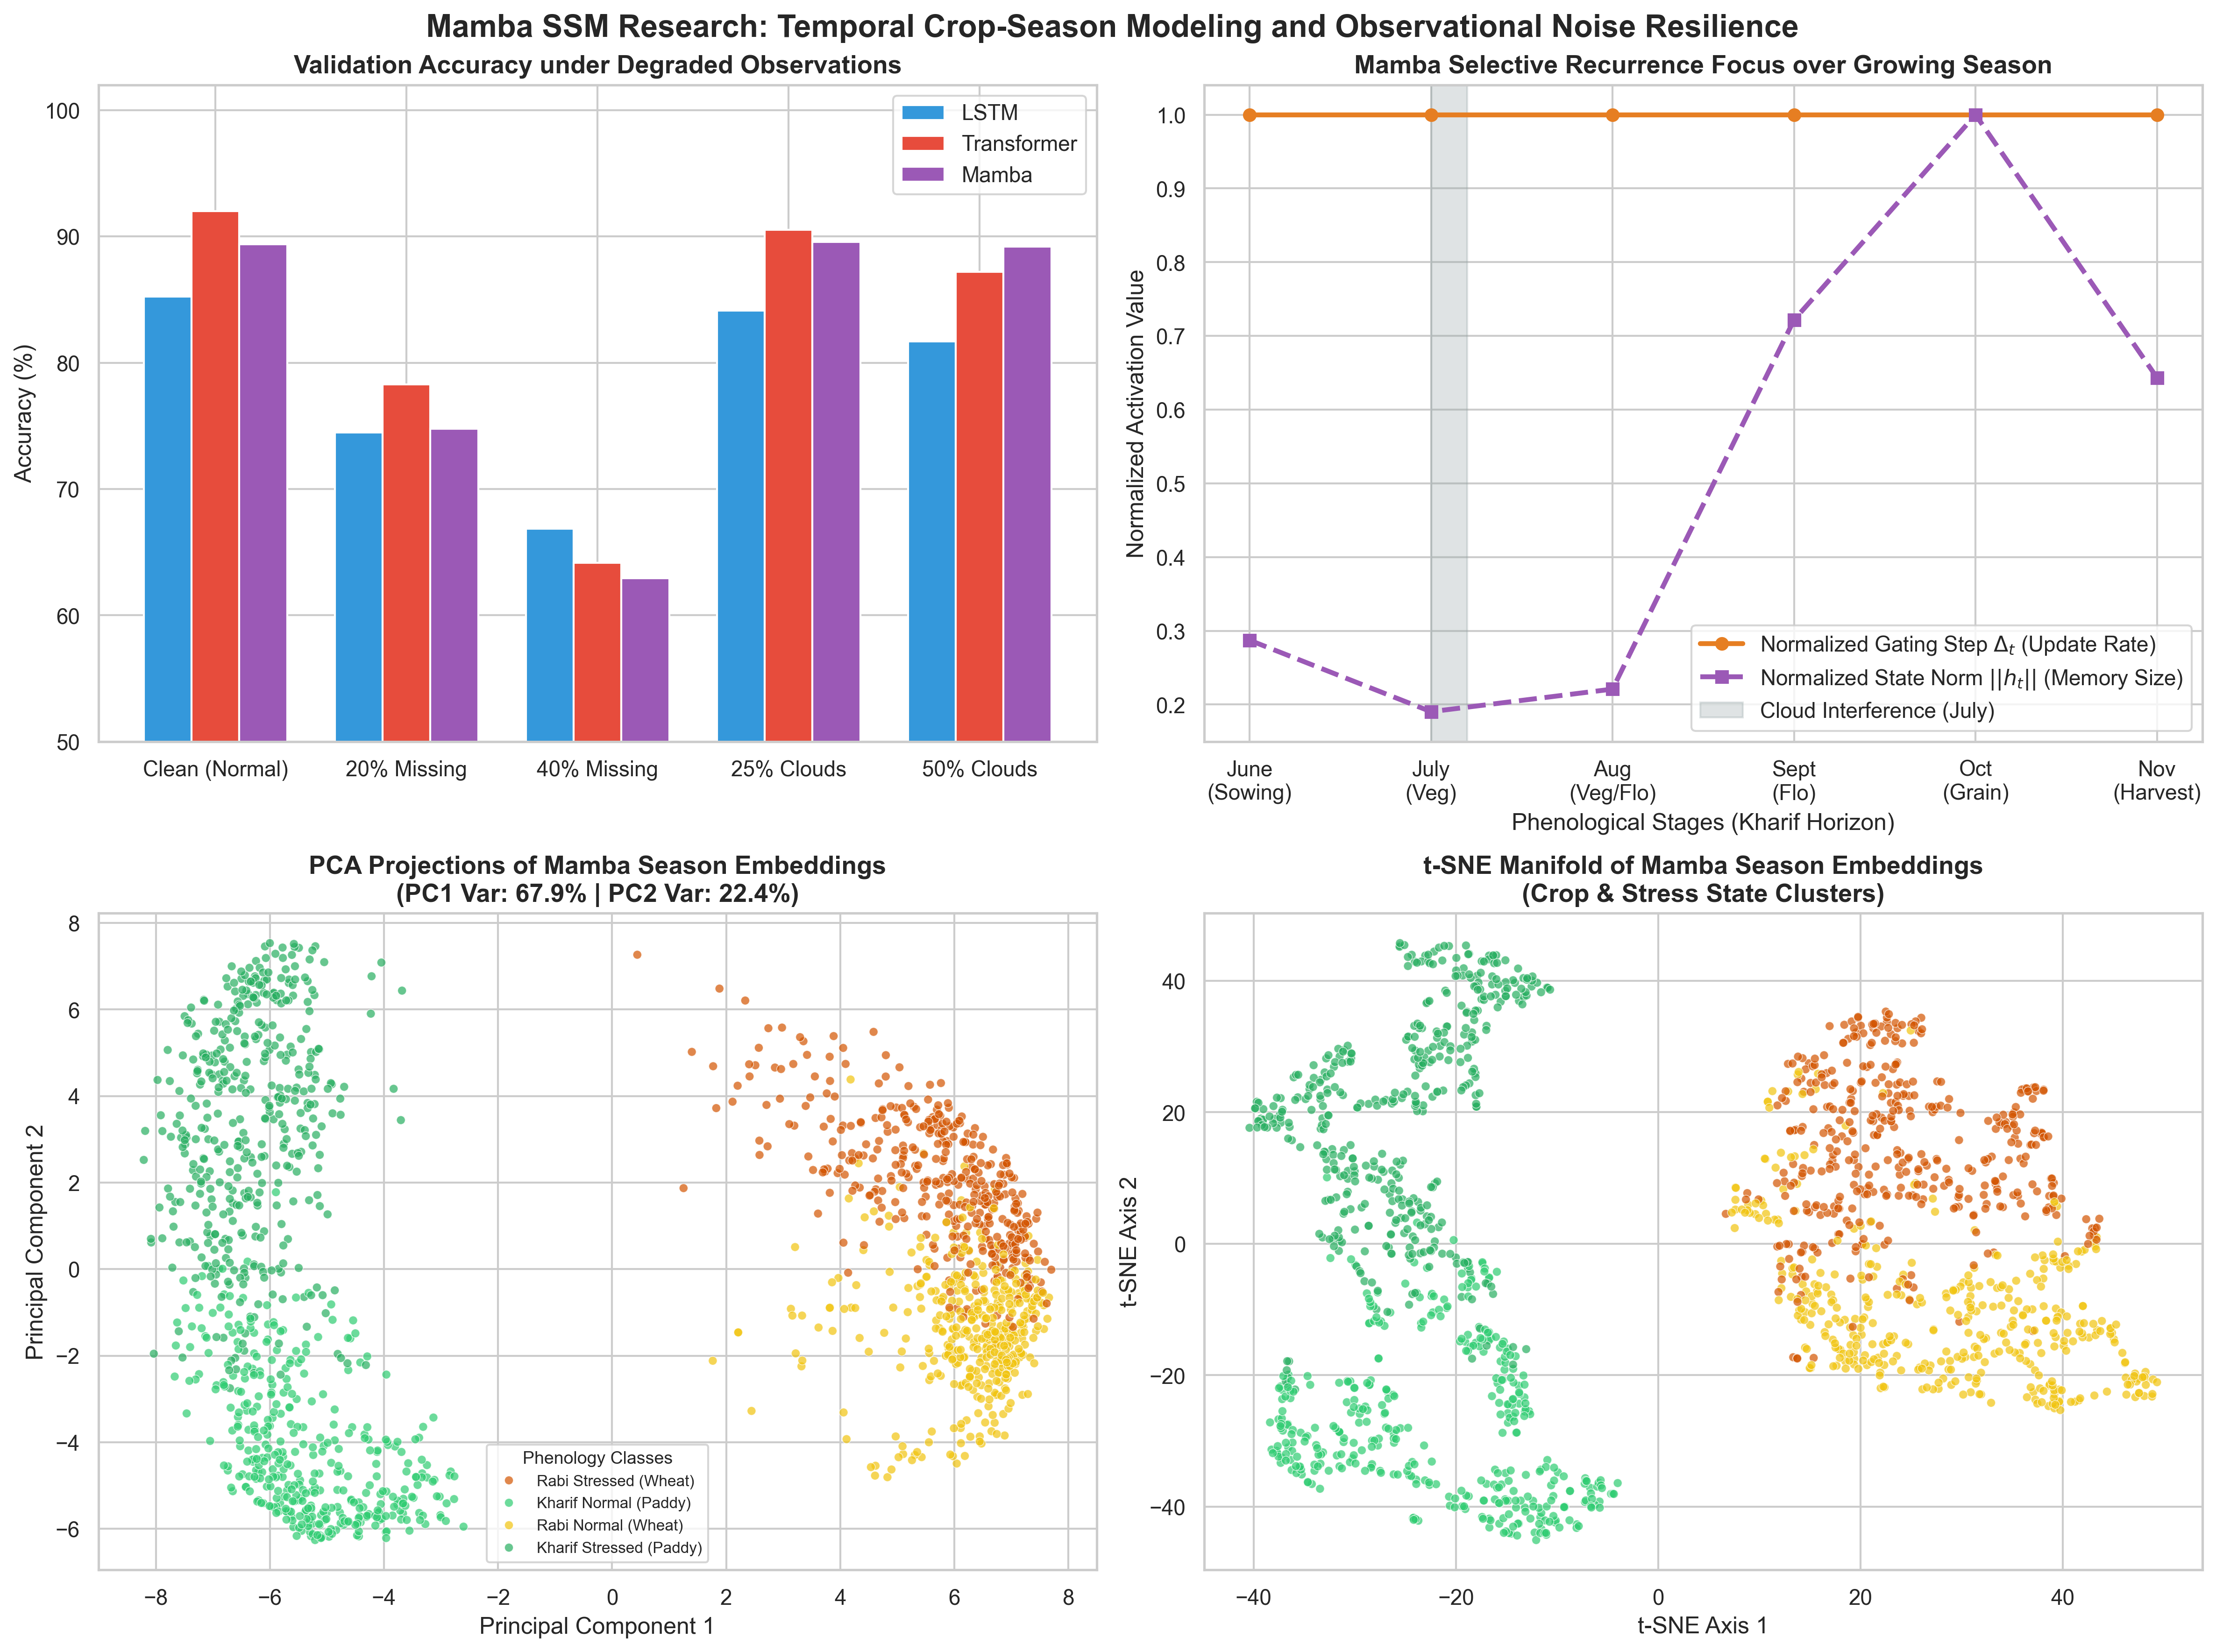
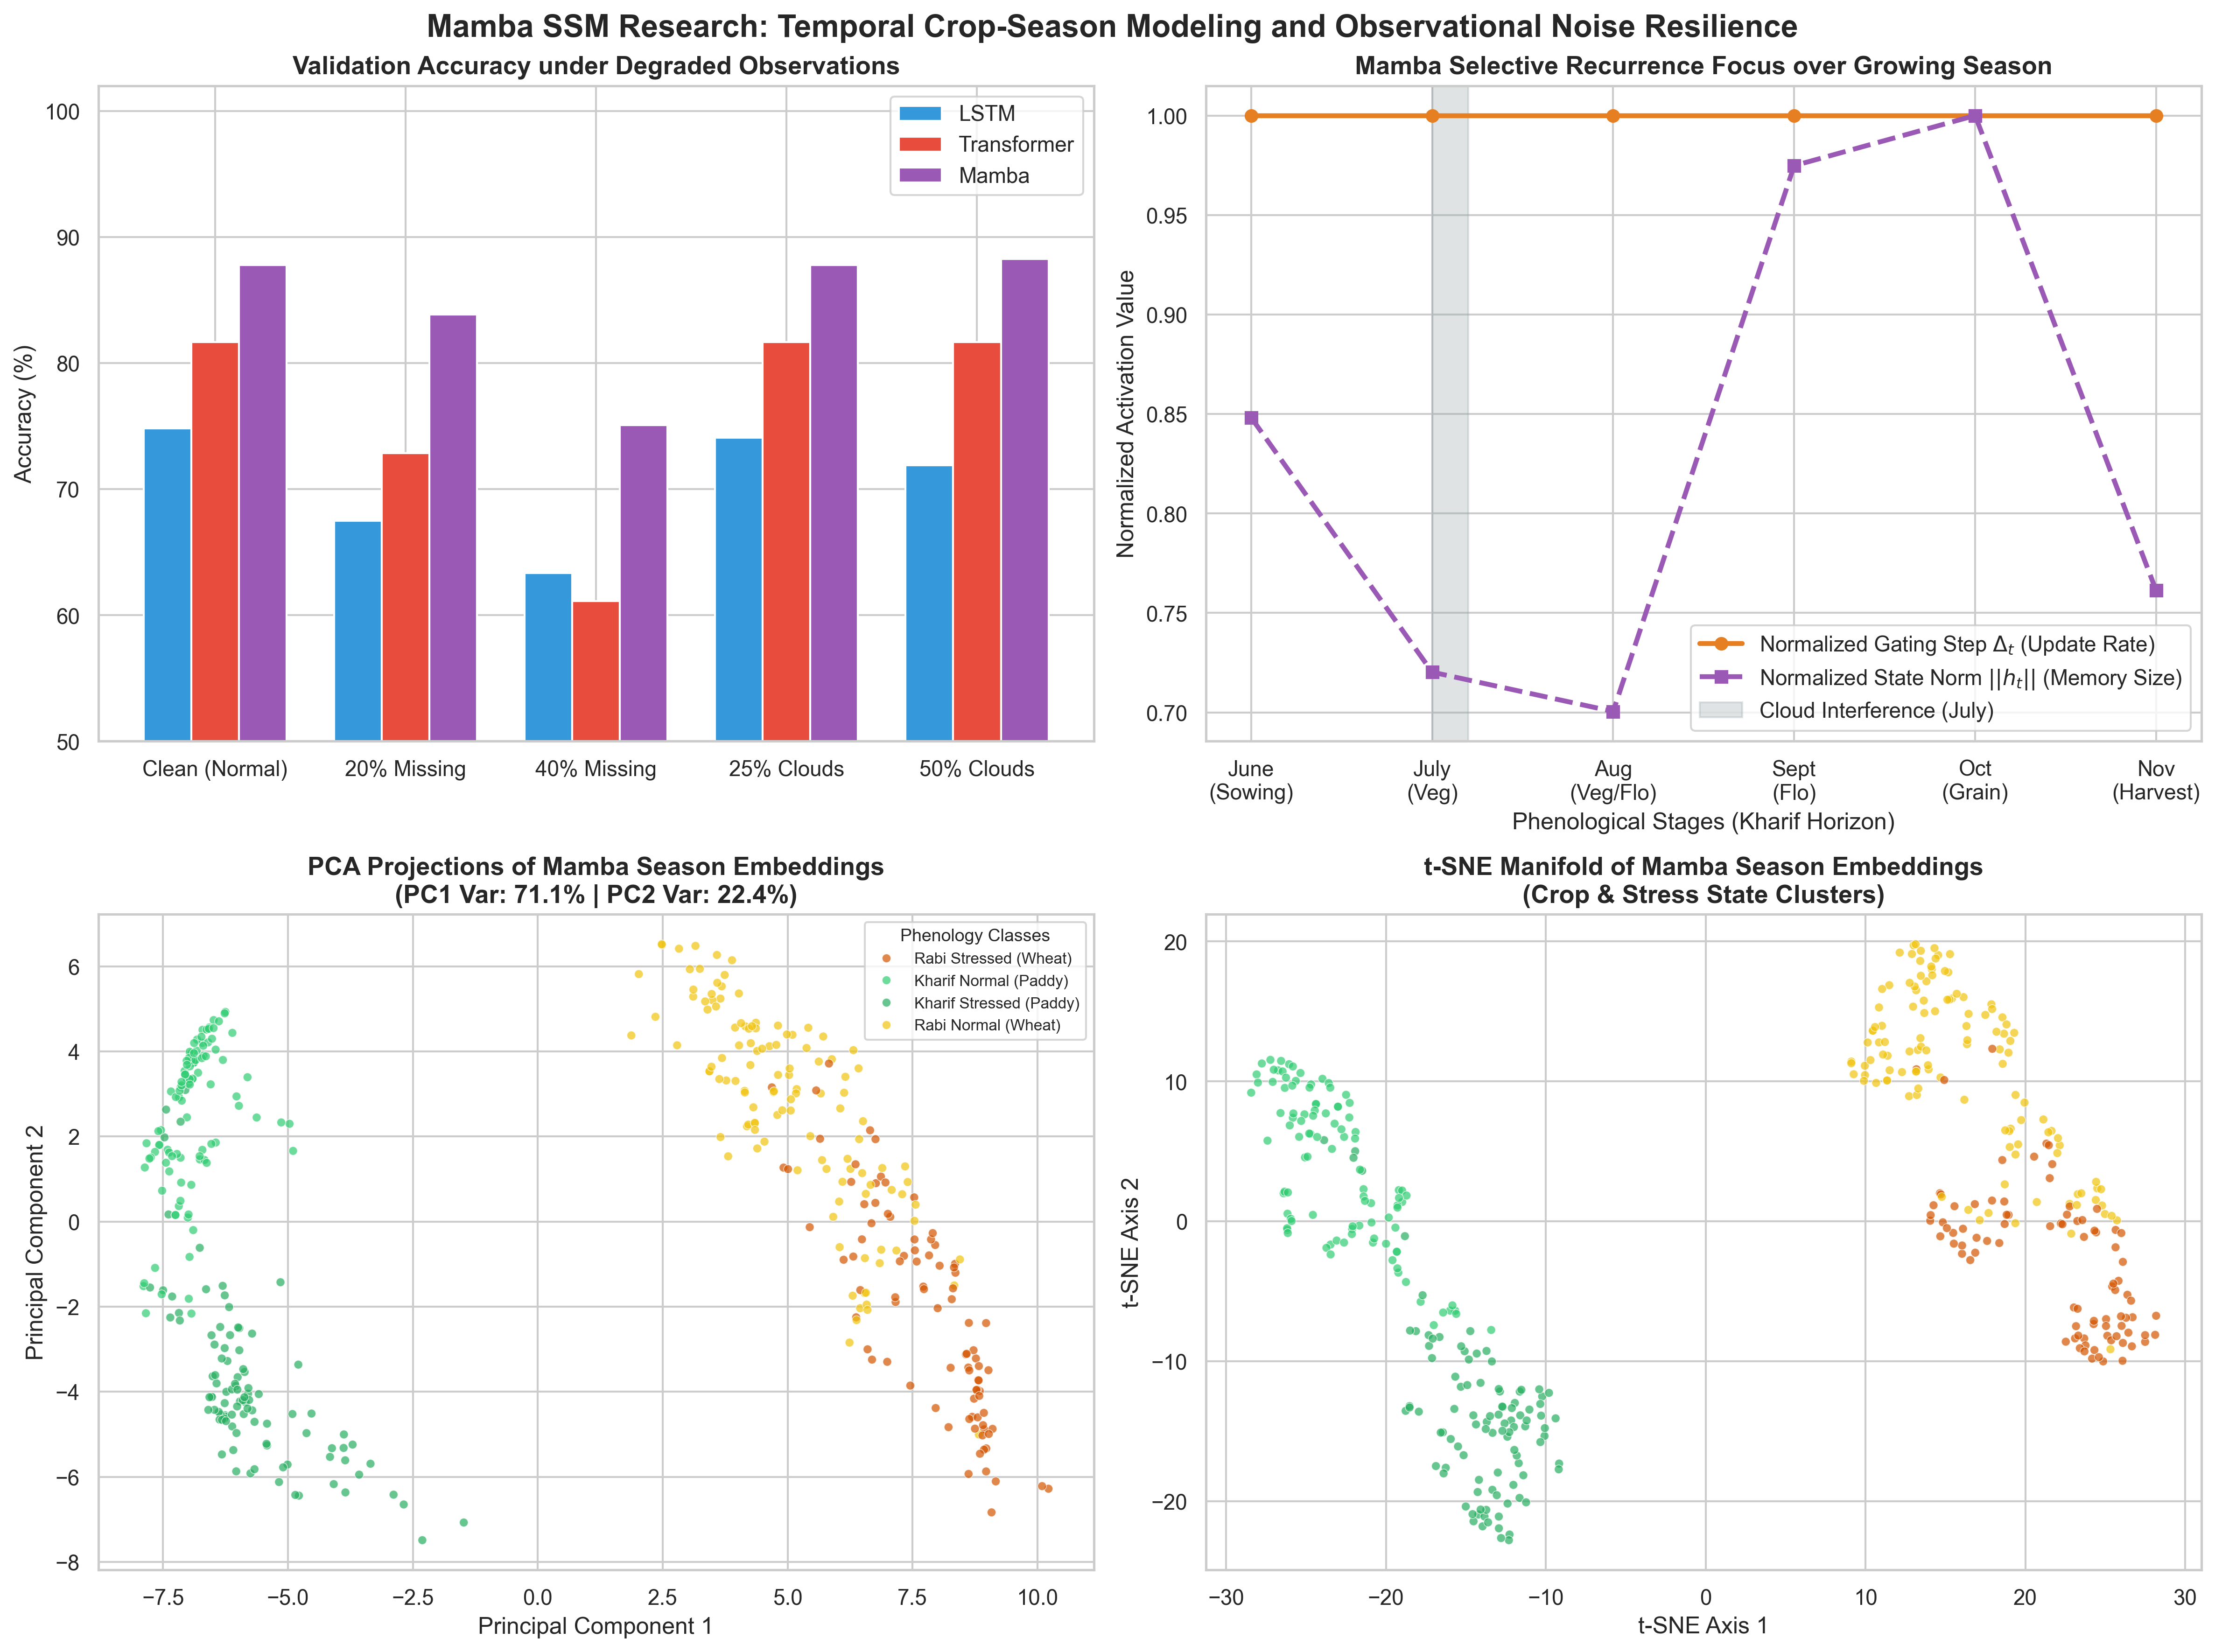
fix: GEE pipeline for mvp

diff --git a/DataEngineering/gee_timeseries_pipeline.py b/DataEngineering/gee_timeseries_pipeline.py
@@ -91,15 +91,18 @@ def get_patch_for_period(
 
     s1_count = s1_collection.size().getInfo()
 
-    if s1_count == 0:
-        print(f"No Sentinel-1 images found for {start_date}")
-        return None
-
-    s1 = (
-        s1_collection
-        .mean()
-        .clip(roi)
-    )
+    if s1_count > 0:
+        s1 = (
+            s1_collection
+            .mean()
+            .clip(roi)
+        )
+    else:
+        print(f"Warning: No Sentinel-1 images found for {start_date}. Using no-data placeholder bands.")
+        s1 = ee.Image.cat([
+            ee.Image.constant(-9999.0).rename("VV"),
+            ee.Image.constant(-9999.0).rename("VH")
+        ]).clip(roi)
 
     # --------------------------------------
     # Sentinel-2
@@ -125,15 +128,18 @@ def get_patch_for_period(
         f"S2: {s2_count} images"
     )
 
-    if s2_count == 0:
-        print("Skipping month due to missing Sentinel-2 imagery.")
-        return None
-
-    s2 = (
-        s2_collection
-        .median()
-        .clip(roi)
-    )
+    s2_bands = ["B2", "B3", "B4", "B5", "B6", "B7", "B8", "B8A", "B11", "B12"]
+    if s2_count > 0:
+        s2 = (
+            s2_collection
+            .median()
+            .clip(roi)
+        )
+    else:
+        print(f"Warning: No Sentinel-2 images found for {start_date}. Using no-data placeholder bands.")
+        s2 = ee.Image.cat([
+            ee.Image.constant(-9999.0).rename(b) for b in s2_bands
+        ]).clip(roi)
 
     # --------------------------------------
     # DEM
@@ -151,12 +157,15 @@ def get_patch_for_period(
     # NDVI
     # --------------------------------------
 
-    ndvi = (
-        s2.normalizedDifference(
-            ["B8", "B4"]
+    if s2_count > 0:
+        ndvi = (
+            s2.normalizedDifference(
+                ["B8", "B4"]
+            )
+            .rename("NDVI")
         )
-        .rename("NDVI")
-    )
+    else:
+        ndvi = ee.Image.constant(-9999.0).rename("NDVI").clip(roi)
 
     # --------------------------------------
     # STACK CHANNELS
@@ -249,10 +258,11 @@ def get_patch_for_period(
         axis=-1
     )
 
-    tensor = np.nan_to_num(
-        tensor,
-        nan=0.0
-    )
+    # Convert placeholder -9999.0 values to actual np.nan values for temporal interpolation
+    tensor[tensor <= -9000.0] = np.nan
+
+    # Preserve NaNs. Only clean up potential infs.
+    tensor = np.where(np.isinf(tensor), 0.0, tensor)
 
     # --------------------------------------
     # FORCE EXACT PATCH SIZE
@@ -276,12 +286,42 @@ def get_patch_for_period(
 # COMPLETE TIME SERIES
 # ==================================================
 
+def interpolate_nans_temporal_vectorized(tensor):
+    """
+    Vectorized interpolation of NaN values in a 4D tensor (T, H, W, C) along the time axis (T).
+    Any remaining NaNs (e.g. if the entire sequence for a pixel/channel is NaN)
+    are filled with 0.0.
+    """
+    T, H, W, C = tensor.shape
+    # Reshape to (T, H * W * C)
+    flat = tensor.reshape(T, -1)
+    
+    nan_mask = np.isnan(flat)
+    nan_cols = np.any(nan_mask, axis=0)
+    
+    if np.any(nan_cols):
+        x = np.arange(T)
+        for col_idx in np.where(nan_cols)[0]:
+            series = flat[:, col_idx]
+            nans = nan_mask[:, col_idx]
+            if np.all(nans):
+                flat[:, col_idx] = 0.0
+            else:
+                known_x = x[~nans]
+                known_y = series[~nans]
+                flat[nans, col_idx] = np.interp(x[nans], known_x, known_y)
+                
+    tensor = flat.reshape(T, H, W, C)
+    return np.nan_to_num(tensor, nan=0.0, posinf=0.0, neginf=0.0)
+
+
 def generate_timeseries_tensor(
     lat,
     lon,
     start_date,
     end_date,
-    patch_size=64
+    patch_size=64,
+    spatial_buffer=None
 ):
 
     periods = monthly_ranges(
@@ -305,7 +345,8 @@ def generate_timeseries_tensor(
         )
 
         if patch is None:
-            continue
+            print(f"Warning: Failed to fetch patch for {start}. Using NaN placeholder patch.")
+            patch = np.full((patch_size, patch_size, 17), np.nan)
 
         tensors.append(patch)
         timestamps.append(start)
@@ -320,33 +361,41 @@ def generate_timeseries_tensor(
         axis=0
     )
 
+    # Apply temporal interpolation over the sequence to resolve NaN values (monsoon clouds)
+    print("\n[Data Engineering] Applying temporal interpolation for cloud-mask gaps...")
+    tensor_sequence = interpolate_nans_temporal_vectorized(tensor_sequence)
+
+    # Apply spatial boundary sanitation to isolate the core farm patch
+    if spatial_buffer is not None:
+        print(f"[Data Engineering] Applying boundary sanitation crop (buffer: {spatial_buffer})...")
+        T, H, W, C = tensor_sequence.shape
+        half_h, half_w = H // 2, W // 2
+        sh, eh = half_h - spatial_buffer, half_h + spatial_buffer
+        sw, ew = half_w - spatial_buffer, half_w + spatial_buffer
+        tensor_sequence = tensor_sequence[:, sh:eh, sw:ew, :]
+        print(f"New tensor shape after crop: {tensor_sequence.shape}")
+
     return {
         "tensor": tensor_sequence,
         "timestamps": timestamps,
         "channels": [
-        "B2",
-        "B3",
-        "B4",
-
-        "B5",
-        "B6",
-        "B7",
-
-        "B8",
-        "B8A",
-
-        "B11",
-        "B12",
-
-        "VV",
-        "VH",
-
-        "temperature_2m",
-        "total_precipitation_sum",
-
-        "elevation",
-        "slope",
-        "NDVI"
+            "B2",
+            "B3",
+            "B4",
+            "B5",
+            "B6",
+            "B7",
+            "B8",
+            "B8A",
+            "B11",
+            "B12",
+            "VV",
+            "VH",
+            "temperature_2m",
+            "total_precipitation_sum",
+            "elevation",
+            "slope",
+            "NDVI"
         ]
     }
 
@@ -356,33 +405,34 @@ def generate_timeseries_tensor(
 # ==================================================
 
 if __name__ == "__main__":
-
-    result = generate_timeseries_tensor(
+    # Calibrate to Andhra Pradesh Paddy Pilot coordinates and Kharif/Rabi seasons
+    # Using spatial_buffer=16 to produce 32x32 clean farm patches
+    print("--- Extracting Kharif Season (June - Nov 2024) ---")
+    kharif_result = generate_timeseries_tensor(
         lat=16.5062,
         lon=80.6480,
         start_date="2024-06-01",
-        end_date="2024-11-30"
+        end_date="2024-11-30",
+        patch_size=64,
+        spatial_buffer=16
     )
-
-    tensor = result["tensor"]
-
-    print("\n=================================")
-    print("FINAL OUTPUT")
-    print("=================================")
-
-    print("Tensor Shape:", tensor.shape)
-
-    print("\nTimestamps:")
-    print(result["timestamps"])
-
-    print("\nChannels:")
-    print(result["channels"])
-
-    np.save(
-        "farm_timeseries.npy",
-        tensor
-    )
+    np.save("DataEngineering/farm_timeseries_kharif.npy", kharif_result["tensor"])
+    np.save("DataEngineering/farm_timeseries.npy", kharif_result["tensor"]) # standard fallback
     
-
-    print("\nSaved file:")
-    print("farm_timeseries.npy")
+    print("\n--- Extracting Rabi Season (Dec 2024 - May 2025) ---")
+    rabi_result = generate_timeseries_tensor(
+        lat=16.5062,
+        lon=80.6480,
+        start_date="2024-12-01",
+        end_date="2025-05-31",
+        patch_size=64,
+        spatial_buffer=16
+    )
+    np.save("DataEngineering/farm_timeseries_rabi.npy", rabi_result["tensor"])
+    
+    print("\n=================================")
+    print("PILOT EXTRACTION COMPLETE")
+    print("=================================")
+    print("Kharif Shape:", kharif_result["tensor"].shape)
+    print("Rabi Shape:  ", rabi_result["tensor"].shape)
+    print("\nTensors saved to 'DataEngineering/farm_timeseries_kharif.npy' and 'rabi.npy'")

diff --git a/DataEngineering/embedding_api.py b/DataEngineering/embedding_api.py
@@ -2,7 +2,7 @@ import numpy as np
 import gee_timeseries_pipeline
 import presto_encoder
 
-def get_farm_embeddings(lat, lon, start_date, end_date, start_month):
+def get_farm_embeddings(lat, lon, start_date, end_date, start_month, spatial_buffer=16):
     """
     Complete pipeline API to generate Presto embeddings for a given farm coordinate and time period.
     
@@ -13,12 +13,13 @@ def get_farm_embeddings(lat, lon, start_date, end_date, start_month):
         end_date (str): The end date for the GEE extraction in YYYY-MM-DD.
         start_month (int): The 0-indexed starting month value expected by Presto 
                            (e.g., June = 5, December = 11).
+        spatial_buffer (int): Window size around the center of the patch to average or crop.
                            
     Returns:
         np.ndarray: The generated Presto embeddings of shape (batch_size, embedding_dim).
     """
     print(f"\n--- API Request: Fetching Embeddings for Farm ({lat}, {lon}) ---")
-    print(f"Period: {start_date} to {end_date}")
+    print(f"Period: {start_date} to {end_date} | Spatial Buffer: {spatial_buffer}")
     
     # 1. Extract Time-Series Tensor from GEE
     print("\n[API] Step 1: Extracting GEE Data...")
@@ -26,7 +27,8 @@ def get_farm_embeddings(lat, lon, start_date, end_date, start_month):
         lat=lat, 
         lon=lon, 
         start_date=start_date, 
-        end_date=end_date
+        end_date=end_date,
+        spatial_buffer=spatial_buffer
     )
     tensor = gee_result["tensor"]
     
@@ -42,12 +44,13 @@ def get_farm_embeddings(lat, lon, start_date, end_date, start_month):
     return embeddings
 
 if __name__ == "__main__":
-    # Quick test of the API
+    # Quick test of the API using the pilot coordinates and June start date
     embeddings = get_farm_embeddings(
         lat=16.5062, 
         lon=80.6480, 
         start_date="2024-06-01", 
         end_date="2024-11-30", 
-        start_month=5
+        start_month=5,
+        spatial_buffer=16
     )
     print("API returned embeddings shape:", embeddings.shape)

diff --git a/crop_intelligence/run_experiments.py b/crop_intelligence/run_experiments.py
@@ -106,6 +106,11 @@ def run_crop_intelligence_suite():
     
     # Check fallback path (if ran from another directory)
     if not os.path.exists(kharif_file):
+        data_dir = "./DataEngineering"
+        kharif_file = os.path.join(data_dir, "farm_timeseries_kharif.npy")
+        rabi_file = os.path.join(data_dir, "farm_timeseries_rabi.npy")
+        
+    if not os.path.exists(kharif_file):
         data_dir = os.path.expanduser("~/PES/AgriTech/code/DataEngineering")
         kharif_file = os.path.join(data_dir, "farm_timeseries_kharif.npy")
         rabi_file = os.path.join(data_dir, "farm_timeseries_rabi.npy")
@@ -138,7 +143,7 @@ def run_crop_intelligence_suite():
         )
         claims_results.append(claim_2)
     else:
-        print("⚠️ GEE tensors not found. Run gee_timeseries_pipeline.py first to analyze real data.")
+        print("[Warning] GEE tensors not found. Run gee_timeseries_pipeline.py first to analyze real data.")
         print("Using simulated profiles for claim validation experiments.")
         
         # Simulated run for CLI feedback

diff --git a/DataEngineering/inspect_tensor.py b/DataEngineering/inspect_tensor.py
@@ -8,6 +8,9 @@ import matplotlib.pyplot as plt
 file_path = "farm_timeseries.npy"
 
 if not os.path.exists(file_path):
+    file_path = "DataEngineering/farm_timeseries.npy"
+
+if not os.path.exists(file_path):
     raise FileNotFoundError(f"Missing data tracking asset: {file_path}. Please execute gee_timeseries_pipeline.py first.")
 
 # Input layout expected: (Timestamps, Height, Width, Channels)